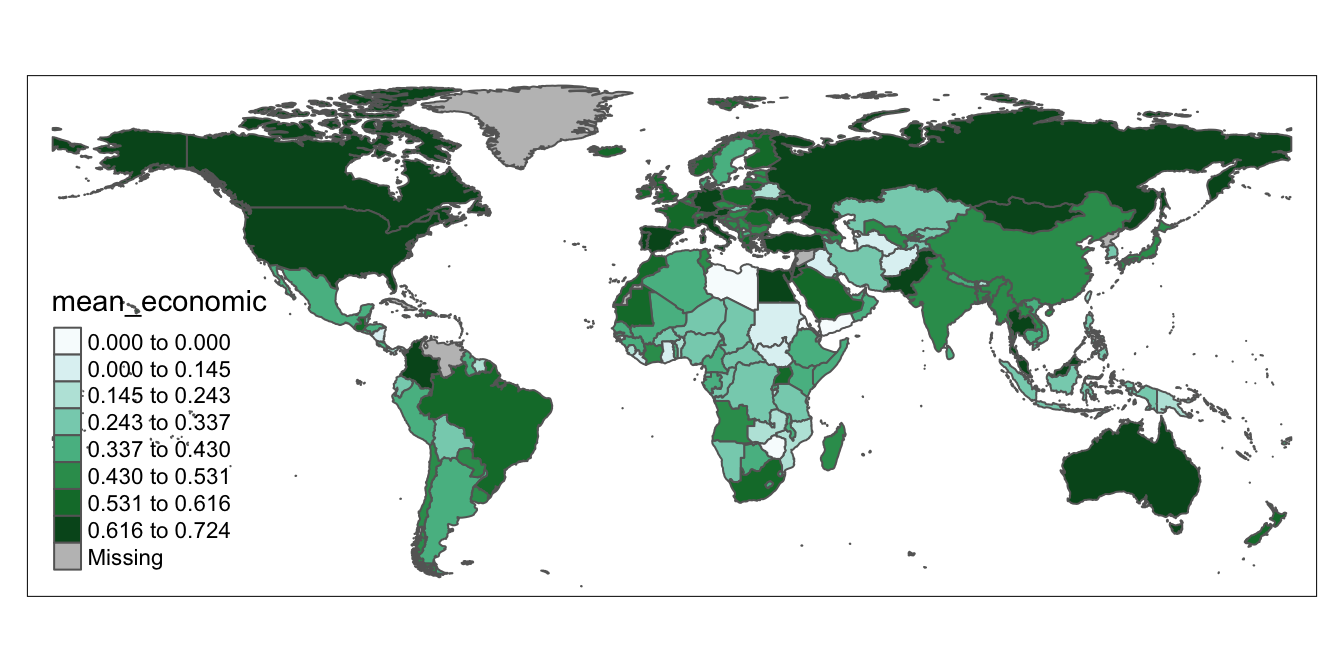
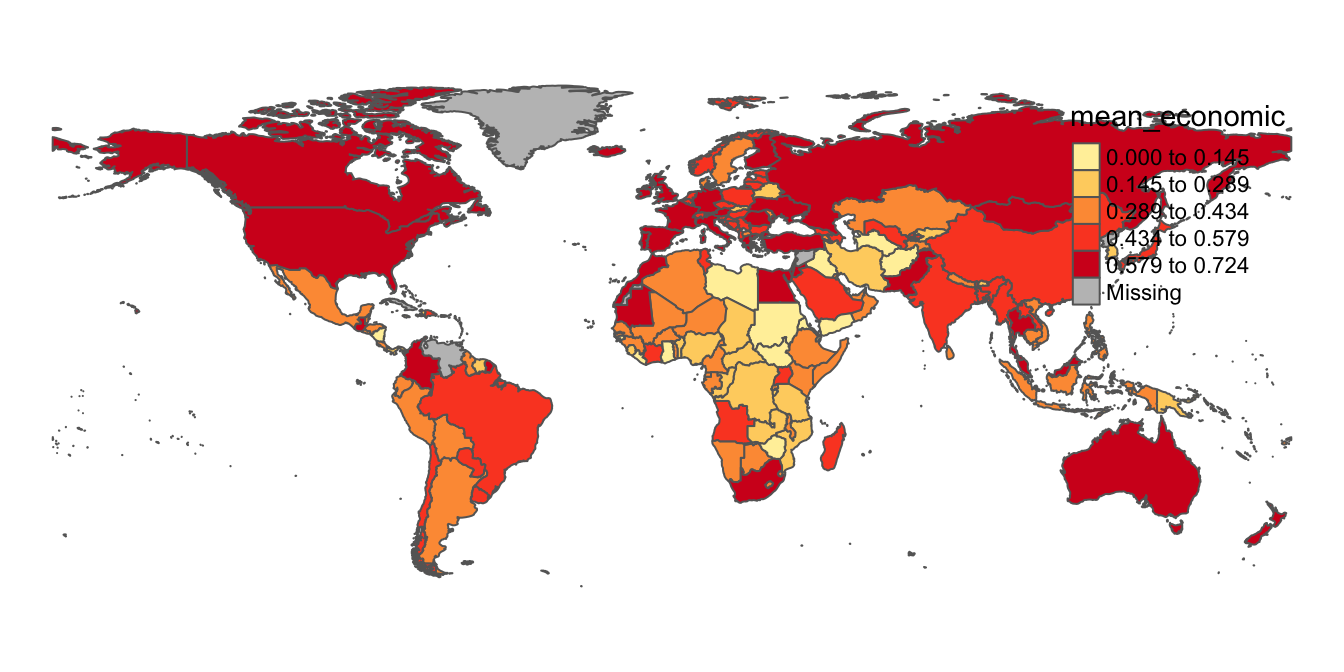
adds additional legend customization code

diff --git a/docs/tutorial.html b/docs/tutorial.html
@@ -24,7 +24,7 @@
 <meta name="author" content="Aditya Ranganath" />
 
 
-<meta name="date" content="2021-09-23" />
+<meta name="date" content="2021-09-24" />
 
   <meta name="viewport" content="width=device-width, initial-scale=1" />
   <meta name="apple-mobile-web-app-capable" content="yes" />
@@ -447,25 +447,50 @@ The <code>tm_polygons</code> function can take a variety of arguments that can h
 <p>Let’s display the map in the “covid_economic_map_alt” object; notice the change in color, the fewer number of classes, and the equal intervals in the legend:</p>
 <div class="sourceCode" id="cb37"><pre class="sourceCode r"><code class="sourceCode r"><span id="cb37-1"><a href="tutorial.html#cb37-1" aria-hidden="true" tabindex="-1"></a>covid_economic_map_alt</span></code></pre></div>
 <p><img src="bookdownproj_files/figure-html/unnamed-chunk-46-1.png" width="672" /></p>
+<p>Note that we can easily remove the map frame if we’d prefer not to have that, with the “Frame” argument to the <code>tm_layout</code> function.</p>
+<div class="sourceCode" id="cb38"><pre class="sourceCode r"><code class="sourceCode r"><span id="cb38-1"><a href="tutorial.html#cb38-1" aria-hidden="true" tabindex="-1"></a><span class="co"># Removes frame from &quot;covid_economic_map_alt&quot; map object</span></span>
+<span id="cb38-2"><a href="tutorial.html#cb38-2" aria-hidden="true" tabindex="-1"></a>covid_economic_map_alt<span class="ot">&lt;-</span>covid_economic_map_alt<span class="sc">+</span></span>
+<span id="cb38-3"><a href="tutorial.html#cb38-3" aria-hidden="true" tabindex="-1"></a>                          <span class="fu">tm_layout</span>(<span class="at">frame=</span><span class="cn">FALSE</span>)</span>
+<span id="cb38-4"><a href="tutorial.html#cb38-4" aria-hidden="true" tabindex="-1"></a></span>
+<span id="cb38-5"><a href="tutorial.html#cb38-5" aria-hidden="true" tabindex="-1"></a><span class="co"># Views amended map object without frame:</span></span>
+<span id="cb38-6"><a href="tutorial.html#cb38-6" aria-hidden="true" tabindex="-1"></a>covid_economic_map_alt</span></code></pre></div>
+<p><img src="bookdownproj_files/figure-html/unnamed-chunk-47-1.png" width="672" /></p>
 </div>
 <div id="customize-legend" class="section level3" number="4.5.2">
 <h3><span class="header-section-number">4.5.2</span> Customize Legend</h3>
-<p>The biggest issue with the rough drafts of our map from the previous section is the position of the legend. Let’s go back to the first map we made (in the “covid_economic_map” object), and simply switch its legend position, using an argument in the <code>tm_legend</code> function:</p>
-<div class="sourceCode" id="cb38"><pre class="sourceCode r"><code class="sourceCode r"><span id="cb38-1"><a href="tutorial.html#cb38-1" aria-hidden="true" tabindex="-1"></a><span class="do">## Shift legend position</span></span>
-<span id="cb38-2"><a href="tutorial.html#cb38-2" aria-hidden="true" tabindex="-1"></a>covid_economic_map<span class="ot">&lt;-</span><span class="fu">tm_shape</span>(worldmap_covid_data_economic)<span class="sc">+</span></span>
-<span id="cb38-3"><a href="tutorial.html#cb38-3" aria-hidden="true" tabindex="-1"></a>                      <span class="fu">tm_polygons</span>(<span class="at">col=</span><span class="st">&quot;mean_economic&quot;</span>, <span class="at">n=</span><span class="dv">8</span>, <span class="at">style=</span><span class="st">&quot;jenks&quot;</span>, <span class="at">palette=</span><span class="st">&quot;BuGn&quot;</span>)<span class="sc">+</span></span>
-<span id="cb38-4"><a href="tutorial.html#cb38-4" aria-hidden="true" tabindex="-1"></a>                      <span class="fu">tm_legend</span>(<span class="at">position=</span><span class="fu">c</span>(<span class="st">&quot;left&quot;</span>, <span class="st">&quot;bottom&quot;</span>))</span>
-<span id="cb38-5"><a href="tutorial.html#cb38-5" aria-hidden="true" tabindex="-1"></a><span class="do">## View Map</span></span>
-<span id="cb38-6"><a href="tutorial.html#cb38-6" aria-hidden="true" tabindex="-1"></a>covid_economic_map</span></code></pre></div>
-<p><img src="bookdownproj_files/figure-html/unnamed-chunk-47-1.png" width="672" /></p>
-<p>Currently, our legend is discrete, but we may want to try using a continuous legend to better match the continuous nature of the index. We can do this by changing the “style” argument to the <code>tm_polygons</code> function:</p>
+<p>The biggest issue with the rough drafts of our map from the previous section is the position of the legend. Let’s go back to the first map we made (in the “covid_economic_map” object), and simply switch its legend position, using an argument in the <code>tm_legend</code> function. We’ll also remove the map frame.</p>
 <div class="sourceCode" id="cb39"><pre class="sourceCode r"><code class="sourceCode r"><span id="cb39-1"><a href="tutorial.html#cb39-1" aria-hidden="true" tabindex="-1"></a><span class="do">## Shift legend position</span></span>
 <span id="cb39-2"><a href="tutorial.html#cb39-2" aria-hidden="true" tabindex="-1"></a>covid_economic_map<span class="ot">&lt;-</span><span class="fu">tm_shape</span>(worldmap_covid_data_economic)<span class="sc">+</span></span>
-<span id="cb39-3"><a href="tutorial.html#cb39-3" aria-hidden="true" tabindex="-1"></a>                      <span class="fu">tm_polygons</span>(<span class="at">col=</span><span class="st">&quot;mean_economic&quot;</span>, <span class="at">style=</span><span class="st">&quot;cont&quot;</span>, <span class="at">palette=</span><span class="st">&quot;BuGn&quot;</span>)<span class="sc">+</span></span>
-<span id="cb39-4"><a href="tutorial.html#cb39-4" aria-hidden="true" tabindex="-1"></a>                      <span class="fu">tm_legend</span>(<span class="at">position=</span><span class="fu">c</span>(<span class="st">&quot;left&quot;</span>, <span class="st">&quot;bottom&quot;</span>))</span>
-<span id="cb39-5"><a href="tutorial.html#cb39-5" aria-hidden="true" tabindex="-1"></a><span class="do">## View Map</span></span>
-<span id="cb39-6"><a href="tutorial.html#cb39-6" aria-hidden="true" tabindex="-1"></a>covid_economic_map</span></code></pre></div>
+<span id="cb39-3"><a href="tutorial.html#cb39-3" aria-hidden="true" tabindex="-1"></a>                      <span class="fu">tm_polygons</span>(<span class="at">col=</span><span class="st">&quot;mean_economic&quot;</span>, <span class="at">n=</span><span class="dv">8</span>, <span class="at">style=</span><span class="st">&quot;jenks&quot;</span>, <span class="at">palette=</span><span class="st">&quot;BuGn&quot;</span>)<span class="sc">+</span></span>
+<span id="cb39-4"><a href="tutorial.html#cb39-4" aria-hidden="true" tabindex="-1"></a>                      <span class="fu">tm_layout</span>(<span class="at">frame=</span><span class="cn">FALSE</span>)<span class="sc">+</span></span>
+<span id="cb39-5"><a href="tutorial.html#cb39-5" aria-hidden="true" tabindex="-1"></a>                      <span class="fu">tm_legend</span>(<span class="at">position=</span><span class="fu">c</span>(<span class="st">&quot;left&quot;</span>, <span class="st">&quot;bottom&quot;</span>))</span>
+<span id="cb39-6"><a href="tutorial.html#cb39-6" aria-hidden="true" tabindex="-1"></a><span class="do">## View Map</span></span>
+<span id="cb39-7"><a href="tutorial.html#cb39-7" aria-hidden="true" tabindex="-1"></a>covid_economic_map</span></code></pre></div>
 <p><img src="bookdownproj_files/figure-html/unnamed-chunk-48-1.png" width="672" /></p>
+<p>Currently, our legend is discrete, but we may want to try using a continuous legend to better match the continuous nature of the index. We can do this by changing the “style” argument to the <code>tm_polygons</code> function. We’ll</p>
+<div class="sourceCode" id="cb40"><pre class="sourceCode r"><code class="sourceCode r"><span id="cb40-1"><a href="tutorial.html#cb40-1" aria-hidden="true" tabindex="-1"></a><span class="do">## Changes &quot;style&quot; argument parameter to &quot;cont&quot; to make continuous legend</span></span>
+<span id="cb40-2"><a href="tutorial.html#cb40-2" aria-hidden="true" tabindex="-1"></a>covid_economic_map<span class="ot">&lt;-</span><span class="fu">tm_shape</span>(worldmap_covid_data_economic)<span class="sc">+</span></span>
+<span id="cb40-3"><a href="tutorial.html#cb40-3" aria-hidden="true" tabindex="-1"></a>                      <span class="fu">tm_polygons</span>(<span class="at">col=</span><span class="st">&quot;mean_economic&quot;</span>, <span class="at">style=</span><span class="st">&quot;cont&quot;</span>, <span class="at">palette=</span><span class="st">&quot;BuGn&quot;</span>)<span class="sc">+</span></span>
+<span id="cb40-4"><a href="tutorial.html#cb40-4" aria-hidden="true" tabindex="-1"></a>                      <span class="fu">tm_layout</span>(<span class="at">frame=</span><span class="cn">FALSE</span>)<span class="sc">+</span></span>
+<span id="cb40-5"><a href="tutorial.html#cb40-5" aria-hidden="true" tabindex="-1"></a>                      <span class="fu">tm_legend</span>(<span class="at">position=</span><span class="fu">c</span>(<span class="st">&quot;left&quot;</span>, <span class="st">&quot;bottom&quot;</span>))</span>
+<span id="cb40-6"><a href="tutorial.html#cb40-6" aria-hidden="true" tabindex="-1"></a><span class="do">## View Map</span></span>
+<span id="cb40-7"><a href="tutorial.html#cb40-7" aria-hidden="true" tabindex="-1"></a>covid_economic_map</span></code></pre></div>
+<p><img src="bookdownproj_files/figure-html/unnamed-chunk-49-1.png" width="672" /></p>
+<p>Let’s explore some additional ways to customize our legend:</p>
+<ul>
+<li>Notice that the legend has a “Missing” category, to indicate countries for which we don’t have data on the Covid-19 economic index. Instead of labelling it “Missing” let’s label it as “No Data”.</li>
+<li>Let’s give the legend a title that describes the data: Mean of Covid Economic Intervention Index (1/1/2020 to 10/1/2020)"</li>
+<li>Finally, it’s possible to experiment with different legend orientations. Let’s flip the legend’s orientation, turning it into a horizontal rather than vertical bar.</li>
+</ul>
+<div class="sourceCode" id="cb41"><pre class="sourceCode r"><code class="sourceCode r"><span id="cb41-1"><a href="tutorial.html#cb41-1" aria-hidden="true" tabindex="-1"></a>covid_economic_map<span class="ot">&lt;-</span><span class="fu">tm_shape</span>(worldmap_covid_data_economic)<span class="sc">+</span></span>
+<span id="cb41-2"><a href="tutorial.html#cb41-2" aria-hidden="true" tabindex="-1"></a>                      <span class="fu">tm_polygons</span>(<span class="at">col=</span><span class="st">&quot;mean_economic&quot;</span>, <span class="at">n=</span><span class="dv">5</span>, <span class="at">style=</span><span class="st">&quot;cont&quot;</span>, <span class="at">palette=</span><span class="st">&quot;BuGn&quot;</span>, <span class="at">textNA=</span><span class="st">&quot;No Data&quot;</span>, </span>
+<span id="cb41-3"><a href="tutorial.html#cb41-3" aria-hidden="true" tabindex="-1"></a>                                  <span class="at">title=</span><span class="st">&quot;Mean of Covid Economic</span><span class="sc">\n</span><span class="st">Intervention Index</span><span class="sc">\n</span><span class="st">(1/1/2020 to 10/1/2020)&quot;</span>, </span>
+<span id="cb41-4"><a href="tutorial.html#cb41-4" aria-hidden="true" tabindex="-1"></a>                                  <span class="at">legend.is.portrait=</span><span class="cn">FALSE</span>,<span class="at">breaks=</span><span class="fu">c</span>(<span class="dv">0</span>,<span class="fl">0.25</span>,<span class="fl">0.5</span>, <span class="fl">0.75</span>))<span class="sc">+</span></span>
+<span id="cb41-5"><a href="tutorial.html#cb41-5" aria-hidden="true" tabindex="-1"></a>                      <span class="fu">tm_layout</span>(<span class="at">legend.title.size=</span><span class="fl">0.8</span>, <span class="at">legend.title.fontface=</span><span class="dv">2</span>,<span class="at">legend.outside=</span><span class="cn">TRUE</span>, </span>
+<span id="cb41-6"><a href="tutorial.html#cb41-6" aria-hidden="true" tabindex="-1"></a>                                <span class="at">legend.outside.position =</span> <span class="fu">c</span>(<span class="st">&quot;bottom&quot;</span>), <span class="at">frame=</span><span class="cn">FALSE</span>, <span class="at">legend.text.size =</span> <span class="fl">0.5</span>,</span>
+<span id="cb41-7"><a href="tutorial.html#cb41-7" aria-hidden="true" tabindex="-1"></a>                                <span class="at">legend.hist.size =</span> <span class="fl">0.5</span>)</span>
+<span id="cb41-8"><a href="tutorial.html#cb41-8" aria-hidden="true" tabindex="-1"></a>covid_economic_map</span></code></pre></div>
+<p><img src="bookdownproj_files/figure-html/unnamed-chunk-50-1.png" width="672" /></p>
 </div>
 <div id="add-map-title-and-credits" class="section level3" number="4.5.3">
 <h3><span class="header-section-number">4.5.3</span> Add Map Title and Credits</h3>

diff --git a/docs/index.html b/docs/index.html
@@ -24,7 +24,7 @@
 <meta name="author" content="Aditya Ranganath" />
 
 
-<meta name="date" content="2021-09-23" />
+<meta name="date" content="2021-09-24" />
 
   <meta name="viewport" content="width=device-width, initial-scale=1" />
   <meta name="apple-mobile-web-app-capable" content="yes" />
@@ -205,7 +205,7 @@ code span.wa { color: #60a0b0; font-weight: bold; font-style: italic; } /* Warni
 <div id="header">
 <h1 class="title">A Guide to Mapping ICPSR Data in R Studio</h1>
 <p class="author"><em>Aditya Ranganath</em></p>
-<p class="date"><em>2021-09-23</em></p>
+<p class="date"><em>2021-09-24</em></p>
 </div>
 <div id="preface" class="section level1" number="1">
 <h1><span class="header-section-number">1</span> Preface</h1>

diff --git a/docs/404.html b/docs/404.html
@@ -24,7 +24,7 @@
 <meta name="author" content="Aditya Ranganath" />
 
 
-<meta name="date" content="2021-09-23" />
+<meta name="date" content="2021-09-24" />
 
   <meta name="viewport" content="width=device-width, initial-scale=1" />
   <meta name="apple-mobile-web-app-capable" content="yes" />

diff --git a/docs/conclusion.html b/docs/conclusion.html
@@ -24,7 +24,7 @@
 <meta name="author" content="Aditya Ranganath" />
 
 
-<meta name="date" content="2021-09-23" />
+<meta name="date" content="2021-09-24" />
 
   <meta name="viewport" content="width=device-width, initial-scale=1" />
   <meta name="apple-mobile-web-app-capable" content="yes" />

diff --git a/docs/introduction.html b/docs/introduction.html
@@ -24,7 +24,7 @@
 <meta name="author" content="Aditya Ranganath" />
 
 
-<meta name="date" content="2021-09-23" />
+<meta name="date" content="2021-09-24" />
 
   <meta name="viewport" content="width=device-width, initial-scale=1" />
   <meta name="apple-mobile-web-app-capable" content="yes" />

diff --git a/docs/practice-and-challenge-exercises.html b/docs/practice-and-challenge-exercises.html
@@ -24,7 +24,7 @@
 <meta name="author" content="Aditya Ranganath" />
 
 
-<meta name="date" content="2021-09-23" />
+<meta name="date" content="2021-09-24" />
 
   <meta name="viewport" content="width=device-width, initial-scale=1" />
   <meta name="apple-mobile-web-app-capable" content="yes" />

diff --git a/docs/preliminaries-and-set-up.html b/docs/preliminaries-and-set-up.html
@@ -24,7 +24,7 @@
 <meta name="author" content="Aditya Ranganath" />
 
 
-<meta name="date" content="2021-09-23" />
+<meta name="date" content="2021-09-24" />
 
   <meta name="viewport" content="width=device-width, initial-scale=1" />
   <meta name="apple-mobile-web-app-capable" content="yes" />
